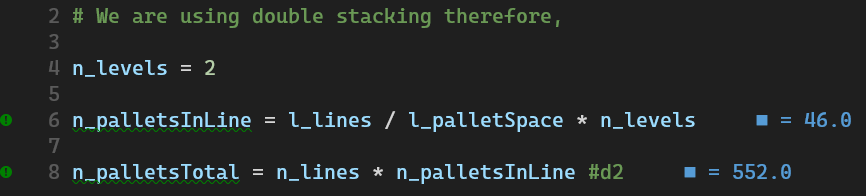
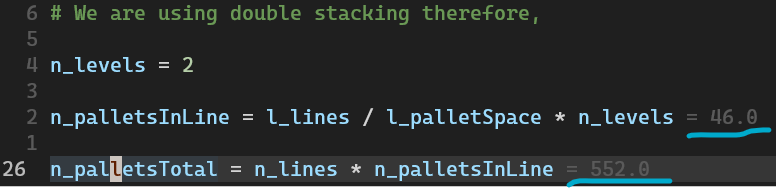
update README after lsp with inlay hints

diff --git a/README.md b/README.md
@@ -82,6 +82,49 @@ The typical workflow is as follows:
 - Then voila! what is needed is done. The output file can be used
   normally.
 
+## Example
+
+Let\'s say you have a word document `foo.docx` with contents like this.
+
+![Word document input](https://raw.githubusercontent.com/K1DV5/docal/master/images/word-in.png)
+
+And you write the calculations in the file `foo.py` next to `foo.docx`
+```python
+## foo.py
+## necessary for scientific functions:
+from math import *
+
+#foo
+
+# The first side of the first triangle is
+x_1 = 5 #m
+# and the second,
+y_1 = 6 #m
+# Therefore the length of the hypotenuse will be,
+z_1 = sqrt(x_1**2 + y_1**2) #m
+
+#bar
+
+# Now the second triangle has sides that have lengths of
+x_2 = 3
+y_2 = 4
+# and therefore has a hypotenuse of
+z_2 = sqrt(x_2**2 + y_2**2) #m,13
+
+# Then, we can say that the hypotenuse of the first triangle which is #z_1 long
+# is longer than that of the second which is #z_2 long.
+```
+
+Now, If we run the command 
+
+```shell
+docal foo.py -o foo.docx
+```
+
+A third file, named `foo-out.docx` will appear. And it will look like this:
+
+![Word document output](https://raw.githubusercontent.com/K1DV5/docal/master/images/word-out.png)
+
 ## Syntax
 
 The syntax is simple. Just write the equations one line at a time. What
@@ -146,57 +189,11 @@ is taken as a real comment. It will not do anything.
 Other code elements like import statements, loops, function definitions, etc.
 are just executed and will not be included in the document.
 
-Example
--------
+## LSP support
 
-Let\'s say you have a word document `foo.docx` with contents like this.
-
-![Word document input](https://raw.githubusercontent.com/K1DV5/docal/master/images/word-in.png)
-
-And you write the calculations in the file `foo.py` next to `foo.docx`
-```python
-## foo.py
-## necessary for scientific functions:
-from math import *
-
-#foo
-
-# The first side of the first triangle is
-x_1 = 5 #m
-# and the second,
-y_1 = 6 #m
-# Therefore the length of the hypotenuse will be,
-z_1 = sqrt(x_1**2 + y_1**2) #m
-
-#bar
-
-# Now the second triangle has sides that have lengths of
-x_2 = 3
-y_2 = 4
-# and therefore has a hypotenuse of
-z_2 = sqrt(x_2**2 + y_2**2) #m,13
-
-# Then, we can say that the hypotenuse of the first triangle which is #z_1 long
-# is longer than that of the second which is #z_2 long.
-```
-
-Now, If we run the command 
-
-```shell
-docal foo.py -o foo.docx
-```
-
-A third file, named `foo-out.docx` will appear. And it will look like
-this.
-
-![Word document output](https://raw.githubusercontent.com/K1DV5/docal/master/images/word-out.png)
-
-### LSP support
-
-There is support for LSP for basic assistance which evaluates and stores
-the values of the variables as information diagnostics which can be used
-to get immediate feedback on our calculations. On Neovim, with virtual
-text, it looks like this:
+There is support for LSP for basic assistance which evaluates and stores the
+values of the variables as inlay hints which can be used to get immediate
+feedback on our calculations. On Neovim, it looks like this:
 
 ![LSP Info](https://raw.githubusercontent.com/K1DV5/docal/master/images/lsp.png)
 
@@ -217,15 +214,17 @@ vim.lsp.config.docal = {
 }
 
 vim.lsp.enable({'docal'})
+-- inlay hints have to be enabled as well
+vim.lsp.inlay_hint.enable()
 ```
 
-# Notes
+## Notes
 
 **Security**: `eval()` is used to evaluate the actual values. In most cases
 this should not be a problem as you are writing your own calculation scripts
-which you want to run later anyway. But still, I'm not an expert on the
-possible security implications though you should make sure that imported code
-is from a trusted source.
+which you want to run anyway. But still, I'm not an expert on the possible
+security implications though you should make sure that imported code is from a
+trusted source.
 
 Python's AST changes almost every release. And since this package depends on
 that, supporting every new version of python will be like a moving target. This
